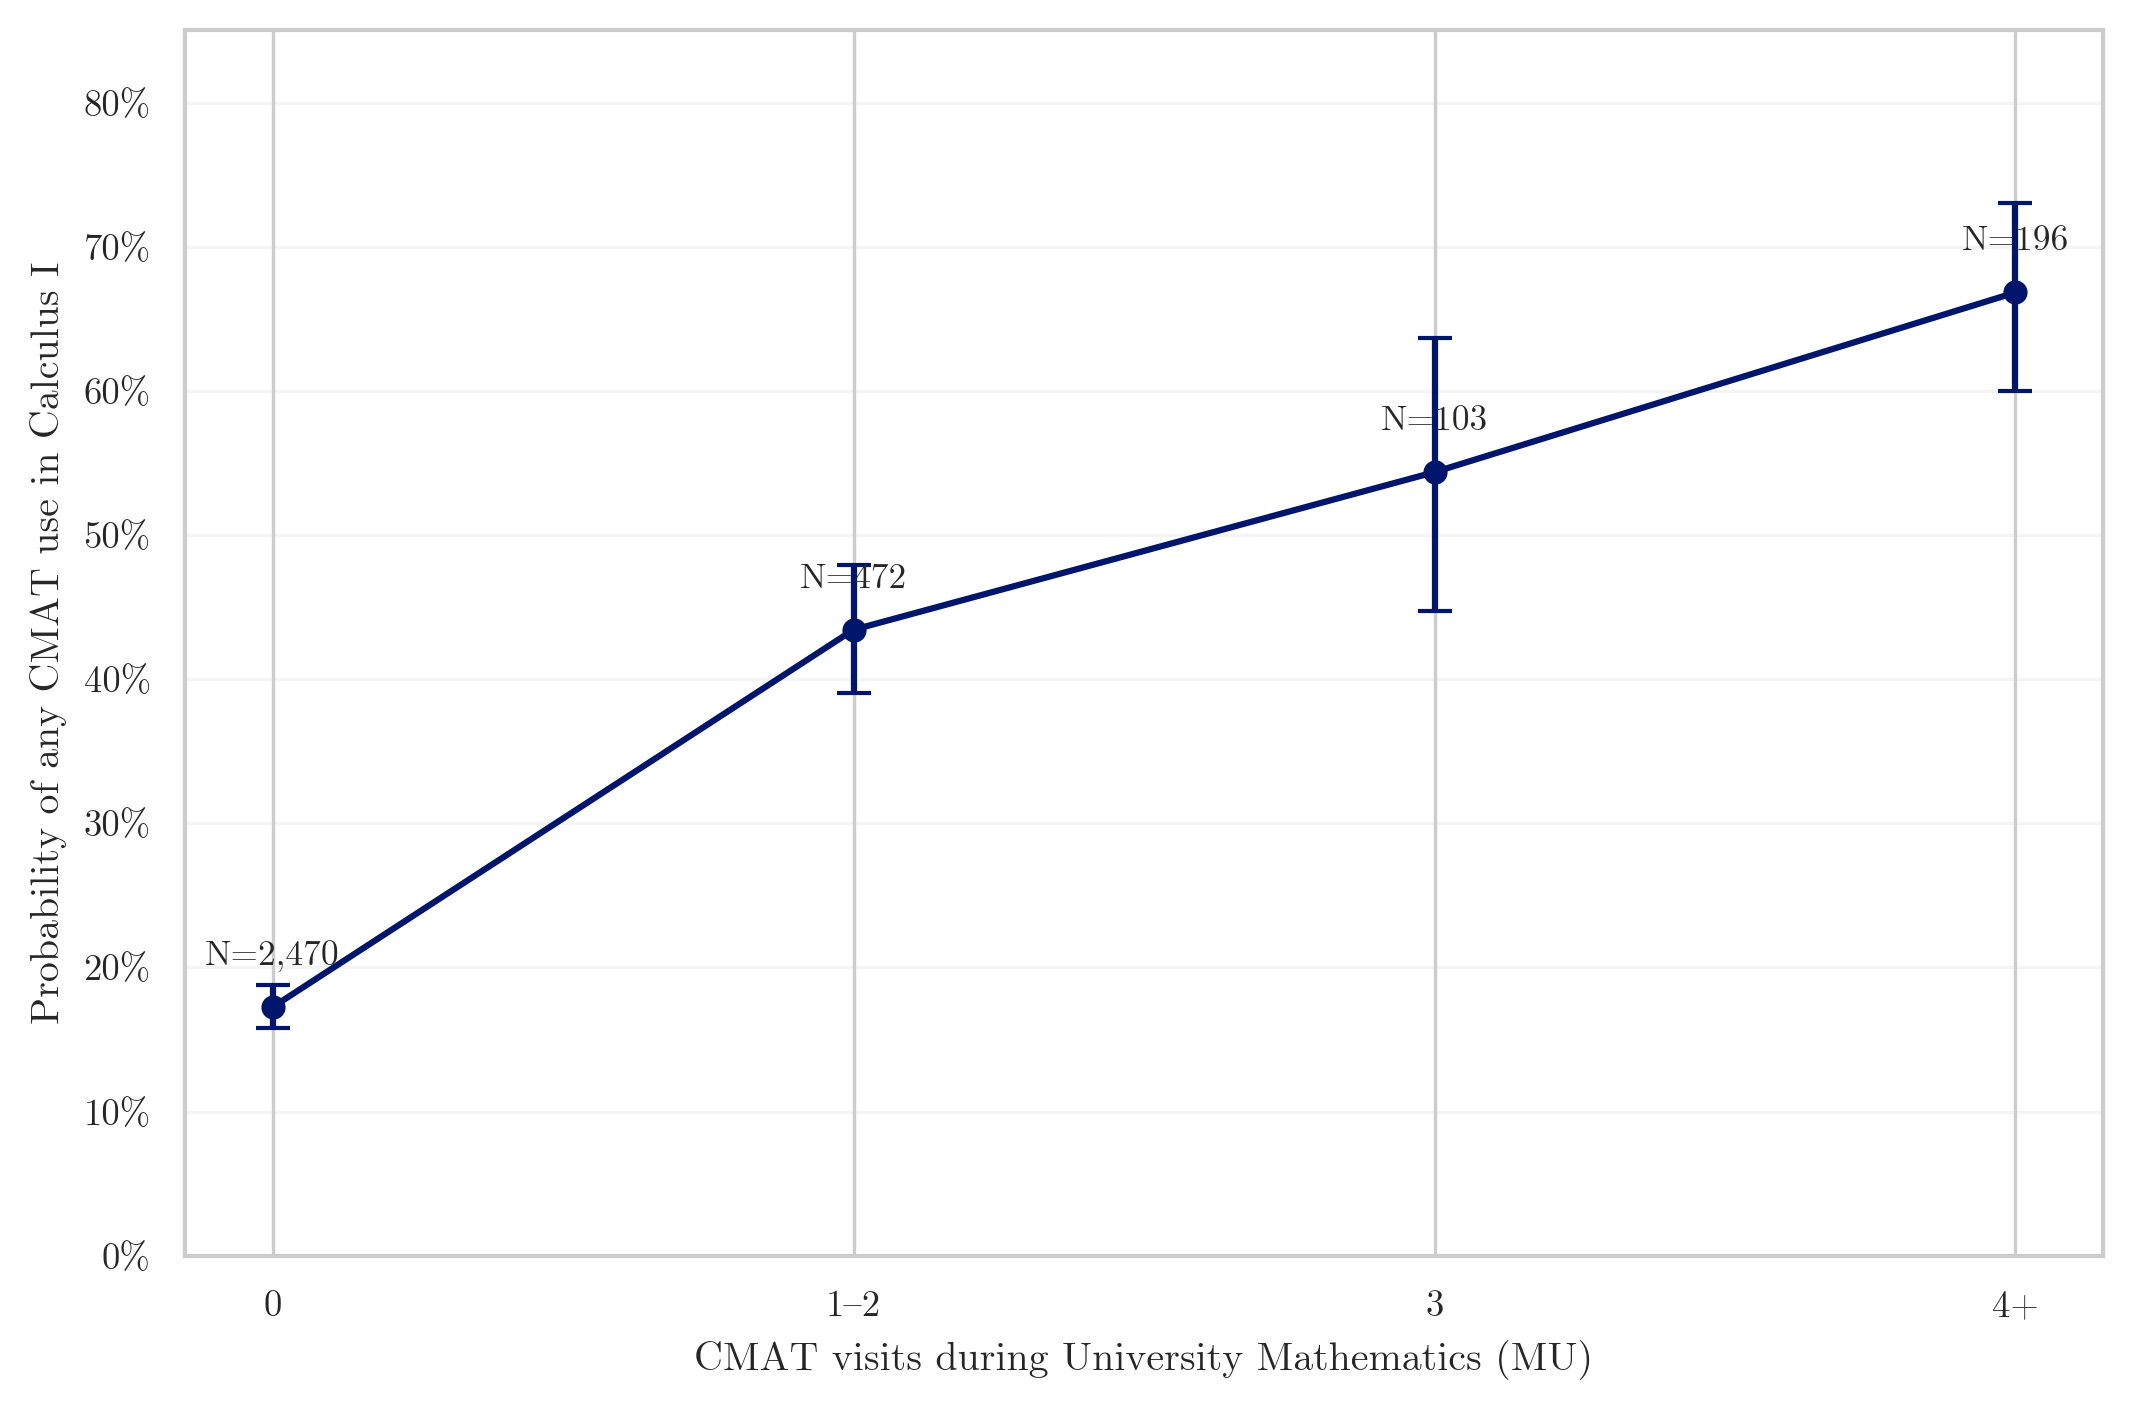
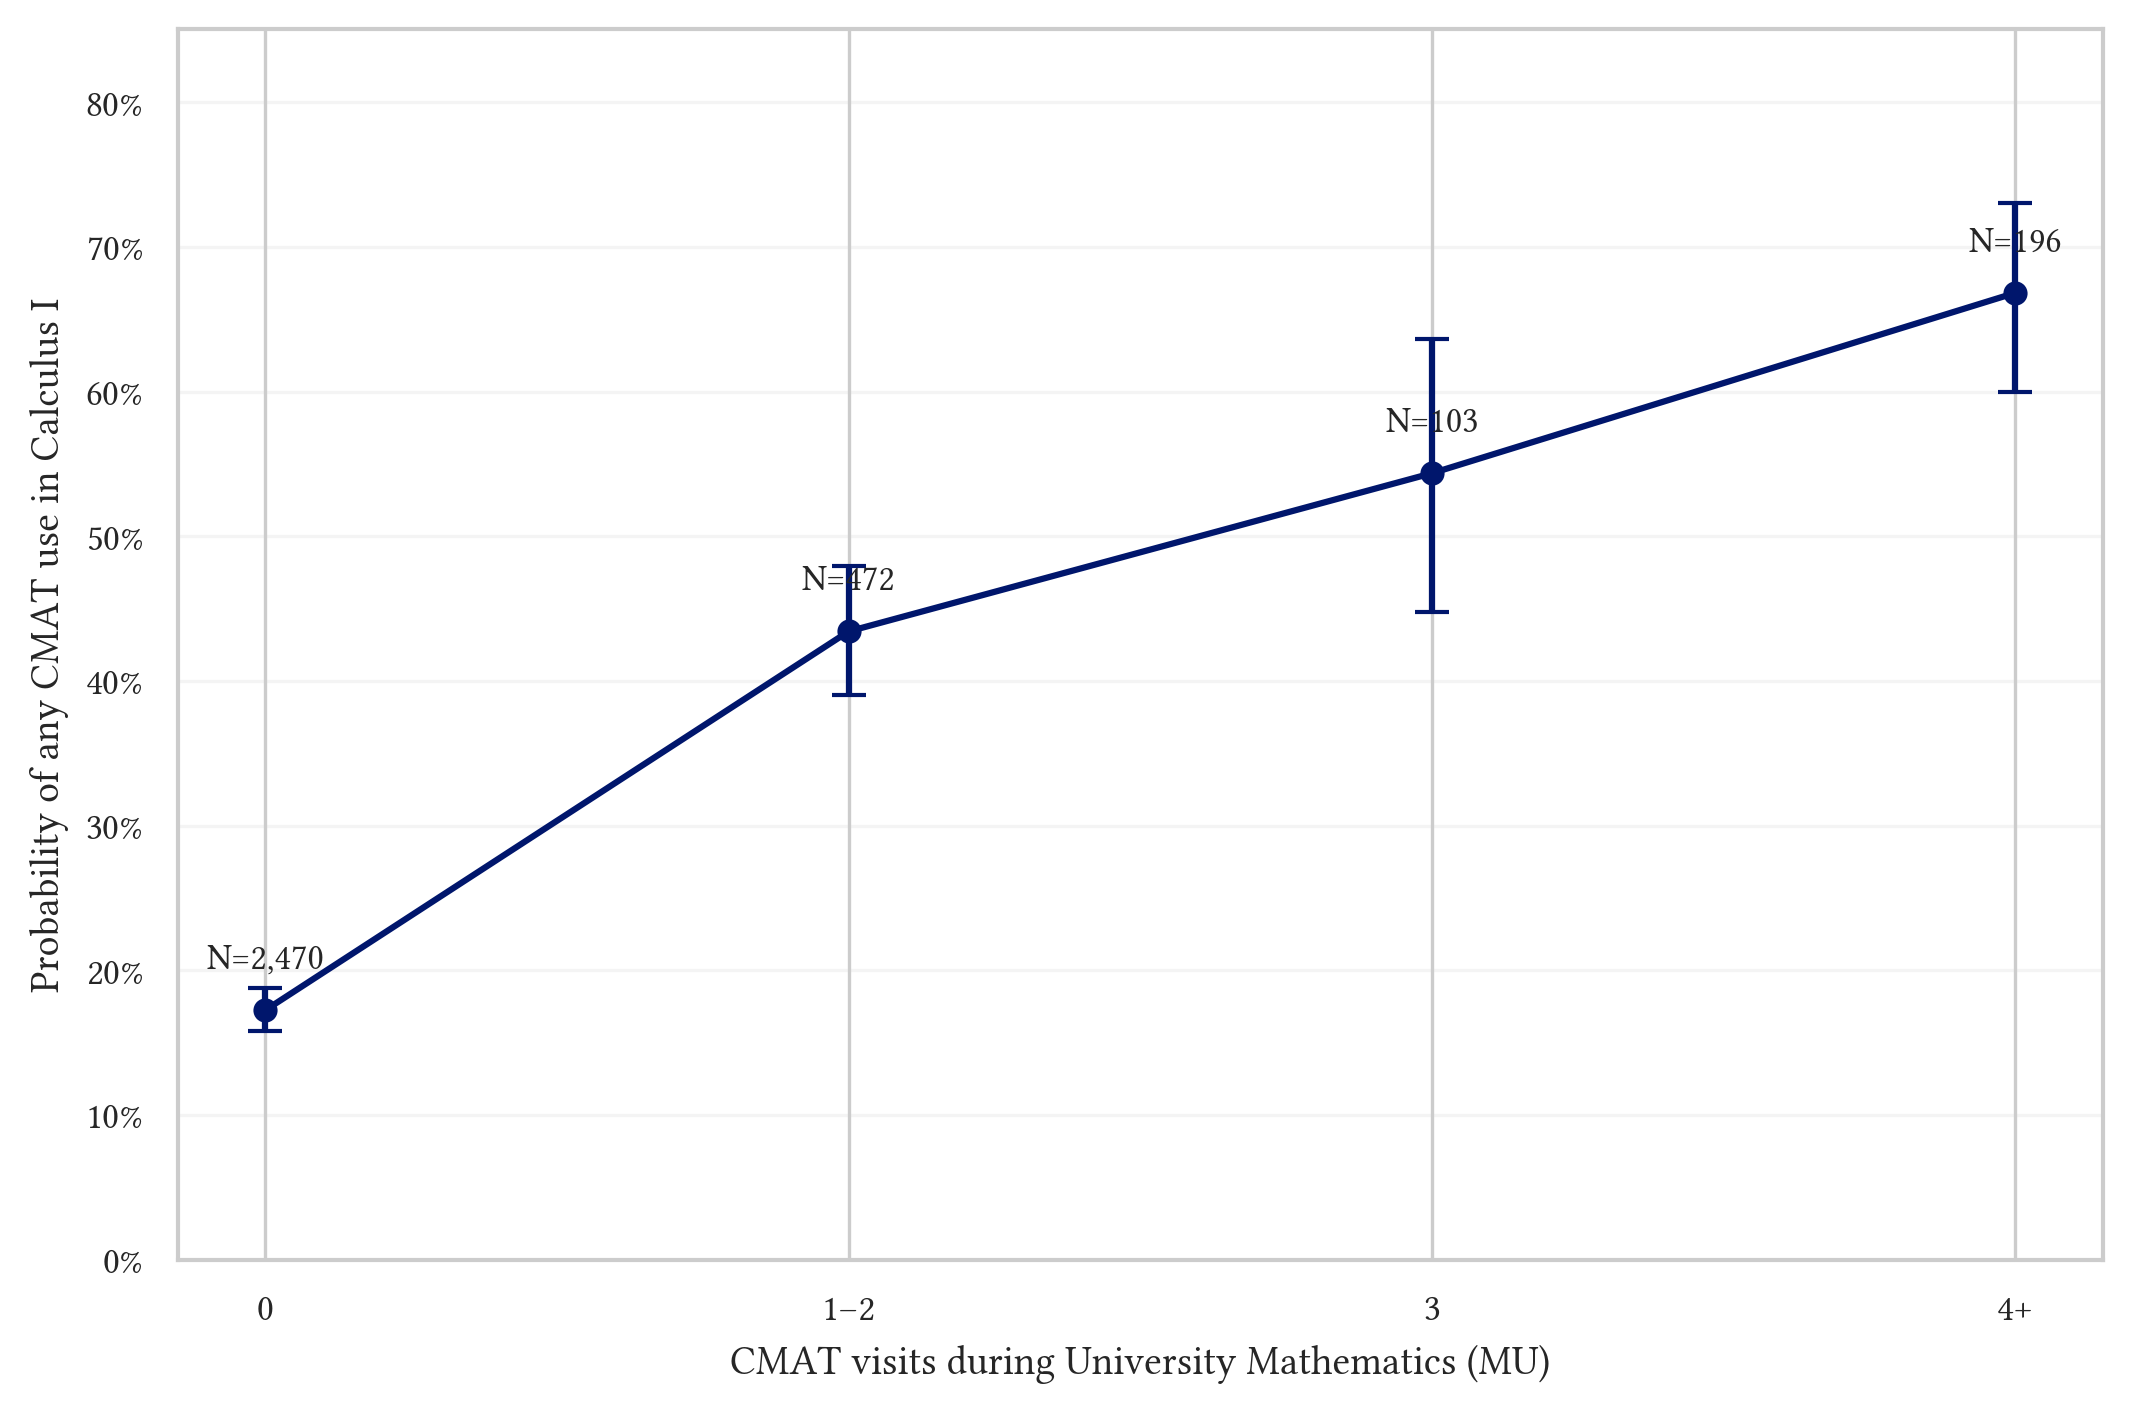
Use Libertinus figures and author-year references

diff --git a/paper/build.py b/paper/build.py
@@ -33,19 +33,25 @@ def run(command: list[str]) -> None:
 
 
 def build_target(stem: str) -> None:
+    bbl = MANUSCRIPT_DIR / f"{stem}.bbl"
+    if bbl.exists() and "\\refsection" not in bbl.read_text(encoding="utf-8", errors="ignore"):
+        # A legacy BibTeX .bbl cannot be read by biblatex.  Remove only that
+        # generated compatibility artifact so latexmk can run Biber.
+        bbl.unlink()
+
     latexmk = shutil.which("latexmk")
     if latexmk:
-        run([latexmk, "-xelatex", "-interaction=nonstopmode", "-halt-on-error", f"{stem}.tex"])
+        run([latexmk, "-g", "-xelatex", "-interaction=nonstopmode", "-halt-on-error", f"{stem}.tex"])
         return
 
     xelatex = shutil.which("xelatex")
-    bibtex = shutil.which("bibtex")
-    if not xelatex or not bibtex:
-        fail("install latexmk or both xelatex and bibtex, then rerun")
+    biber = shutil.which("biber")
+    if not xelatex or not biber:
+        fail("install latexmk or both xelatex and biber, then rerun")
 
     latex = [xelatex, "-interaction=nonstopmode", "-halt-on-error", f"{stem}.tex"]
     run(latex)
-    run([bibtex, stem])
+    run([biber, stem])
     run(latex)
     run(latex)
 

diff --git a/paper/sections/05.tex b/paper/sections/05.tex
@@ -20,7 +20,6 @@ This study shows that formal mathematics-support use can persist well beyond an 
 
 The evidence does not show that PPA caused persistence or that CMAT attendance caused academic improvement. Its contribution is instead to separate three objects that are often conflated in evaluations of voluntary support: institutional conditions that encourage initial participation, student-selected use while those conditions are active, and later continuation when the same incentive context no longer applies. Treating these as distinct outcomes provides a more informative way to study academic support, engagement, and persistence in higher education.
 
-\bibliographystyle{unsrtnat}
-\bibliography{references}
+\printbibliography
 
 \end{document}

diff --git a/paper/sections/01.tex b/paper/sections/01.tex
@@ -9,8 +9,23 @@
 \usepackage{array}
 \usepackage{caption}
 \usepackage{pdflscape}
-\usepackage[numbers,sort&compress]{natbib}
-\usepackage[hidelinks]{hyperref}
+\usepackage{xcolor}
+\definecolor{CMATNavy}{HTML}{00166C}
+\usepackage[
+  backend=biber,
+  style=authoryear-comp,
+  sorting=nyt,
+  maxcitenames=2,
+  maxbibnames=99,
+  giveninits=true,
+  doi=true,
+  url=false,
+  isbn=false
+]{biblatex}
+\addbibresource{references.bib}
+\let\citep\parencite
+\let\citet\textcite
+\usepackage[colorlinks=true,linkcolor=CMATNavy,citecolor=CMATNavy,urlcolor=CMATNavy]{hyperref}
 \usepackage[nameinlink,noabbrev]{cleveref}
 
 \providecommand{\PaperCommented}{0}
